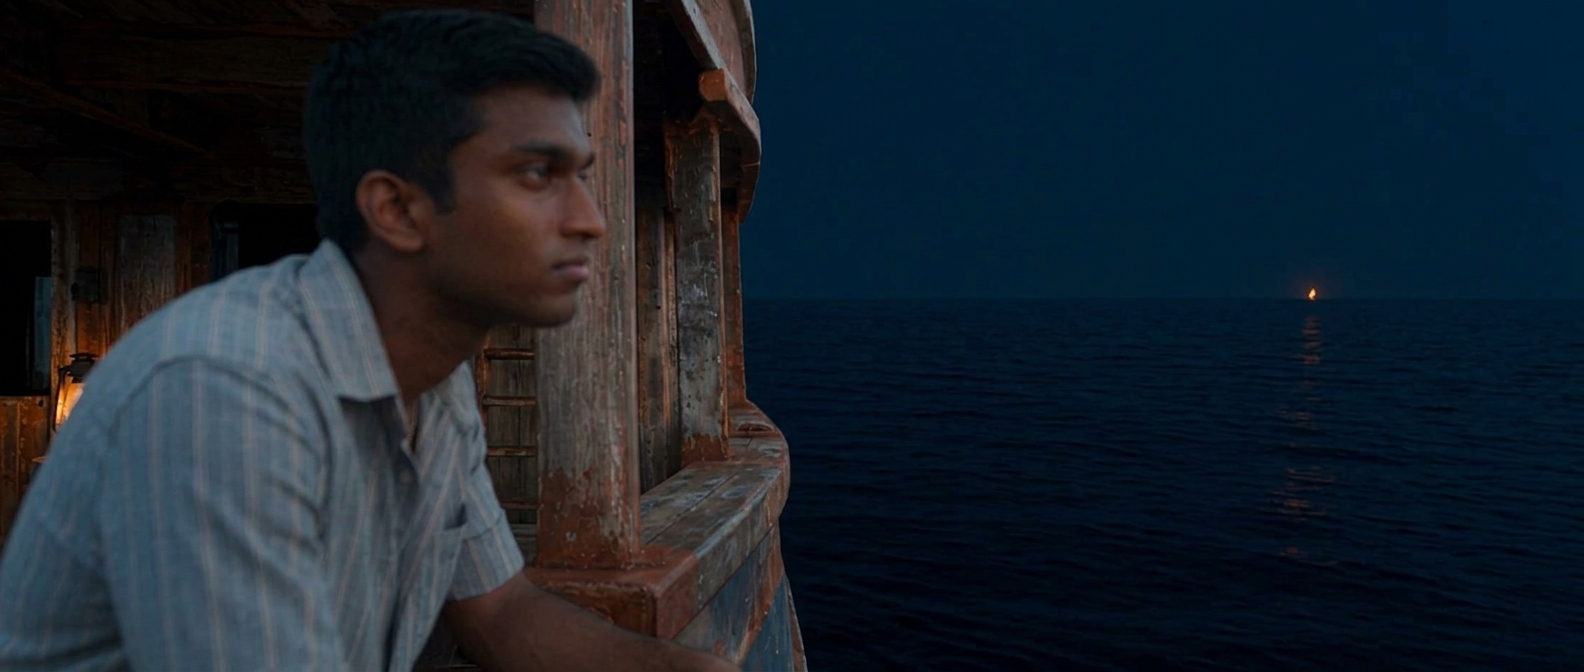
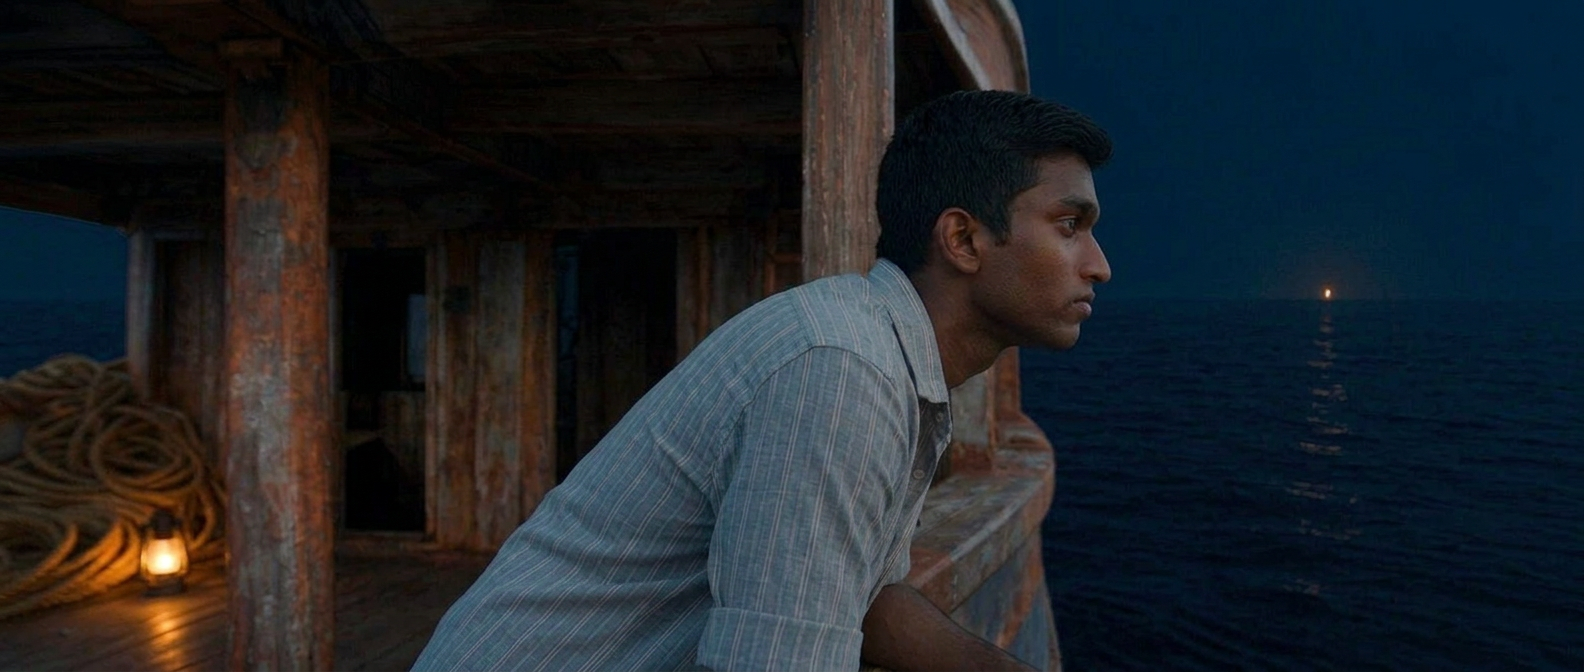
Ranjith: asset: SB028 end keyframe re-made, eyeline on the far light (@s23sh01nightend)

diff --git a/INDEX.md b/INDEX.md
@@ -152,7 +152,7 @@ Status: `approved` · `waiting for approval` · `retired`
 | `@s23sh07bstart` | Start keyframe of s23-sh07b (21:9): the wide aft view; Aashaan in MCU close to the lens at the right, speaking; behind him soft: Babu, Antony and Balan (gripping Antony) at the right-hand rail, Sasi, Raghavan and Suresh by the sacks, the wheel empty | s23-sh07b start | `scenes/showreel/approved/s23-wake-keyframes/s23-sh07b-start.png` | Ranjith | 2026-11-13 | approved |
 | `@s23sh07bwheel` | Reference crop for s23-sh07b: the deckhouse windows only, Aashaan inside behind the middle window at the one spoked wheel, lantern lit; no people outside | s23-sh07b end (6.5–10 s) | `scenes/showreel/approved/s23-wake-keyframes/s23-sh07b-wheel.png` | Ranjith | 2026-11-13 | approved |
 | `@s23sh01night` | Start image of s23-sh01 (SB028 reshoot): Aswanth's night frame, Antony leaning on the rail at the deckhouse front, rusty posts, rope coil and lantern behind him at the left, dark sea at the right | s23-sh01 start | `scenes/showreel/approved/sb028-night/s23-sh01-night-start.jpg` | Aswanth (frame), Ranjith (registered) | 2026-11-13 | approved |
-| `@s23sh01nightend` | End keyframe of s23-sh01 (21:9): closer, Antony's profile at the left, a tiny warm light on the horizon at the right with its reflection, 500 m off | s23-sh01 end | `scenes/showreel/approved/sb028-night/s23-sh01-night-end.png` | Ranjith | 2026-11-13 | approved |
+| `@s23sh01nightend` | End keyframe of s23-sh01 (21:9): same framing as the start; Antony leans out over the rail past the corner posts, side profile against the sea, eyes level on a tiny warm light on the horizon at the right, 500 m off; lantern low on the deck by the rope coil | s23-sh01 end | `scenes/showreel/approved/sb028-night/s23-sh01-night-end.png` | Ranjith | 2026-11-13 | approved |
 | `@s23sh06clast` | Last frame of the approved s23-sh06c take: behind Balan (left) and Antony (right) at the left rail, the burning vallam 500 m off between them | Reference image for s23-sh06 | `scenes/showreel/approved/s23-sh06c-last.png` | Ranjith | 2026-11-12 | approved |
 | `@s21sh03startfullmoon` | START frame of s21-sh03 (21:9): Antony from behind three-quarters at the right-hand bulwark of our bow (as on @urubowplate), left hand on the rail; full moon high RIGHT with its silver path; mast with its lantern at the left | Start image of s21-sh03 (and the bow view of SB028) | `scenes/showreel/approved/s21-sh03-start-fullmoon.png` | Ranjith | 2026-11-12 | approved |
 | `@s21sh03last` | Last frame of the approved s21-sh03 full-moon take (21:9): our blue bow, Antony from behind at the right-hand bulwark right of the stem, right hand on the rope coil, full moon upper right with its silver path | Start image for s23-sh01 | `scenes/showreel/approved/s21-sh03-last-fullmoon.jpg` | Ranjith | 2026-11-12 | approved |

diff --git a/scenes/showreel/image-qa/sb028-night-qc.md b/scenes/showreel/image-qa/sb028-night-qc.md
@@ -1,0 +1,7 @@
+# Image QA: SB028 reshoot keyframes (Ranjith, 2026-11-13)
+
+IMAGE QA — @s23sh01nightend · Continuity score 89/100 · Pass
+Compared with: @s23sh01night (Aswanth's frame rc-060.0s), LOCK.md
+Eyelines: Antony → the tiny light on the horizon ✅ (line drawn from the eye: level, over open sea, clear of the posts)
+Props and surfaces vs the latest approved frame: rusty posts ✅, worn rail ✅, rope coil ✅, lantern low on the deck by the coil ✅, shirt ✅
+Fix history: v1 eyes down to the water (L154); v2 eyeline into the corner posts; v3 lantern moved to a wall shelf (L151); v4 lantern back but eyeline through the far posts; v5 leans out past the posts: pass.
